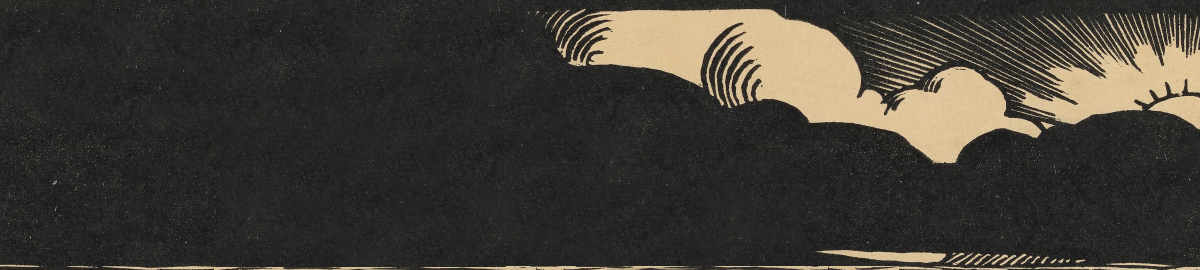
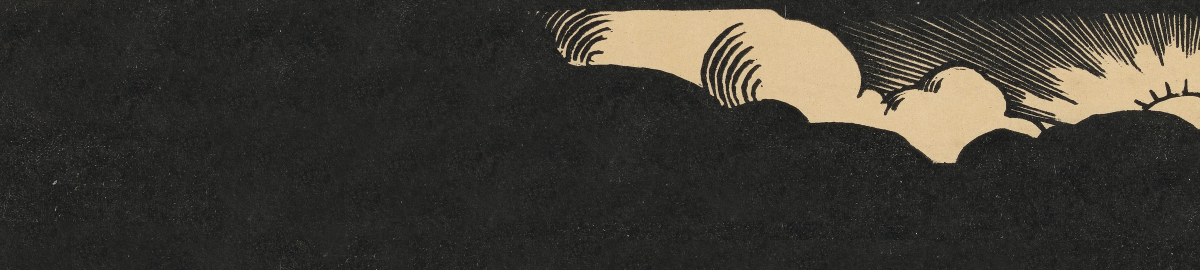
fix top image on small screens

Changed region(s): [[0.0617, 0.9185, 1.0, 1.0], [0.9867, 0.9185, 1.0, 0.9481], [0.0, 0.9778, 0.0308, 1.0]]

diff --git a/_sass/_main.scss b/_sass/_main.scss
@@ -36,7 +36,7 @@ body {
 	line-height: $lineheightserif;
 	height: 100%;
 	ul {list-style-type: none;}
-	background-color: black;
+	background-color: #272726;
 }
 
 *.sans {
@@ -80,14 +80,23 @@ h3, h4, h5 {
 	line-height: $lineheightserif;
 }
 
-#sitetitle {a {color: white;}}
+#sitetitle {
+	a {
+		color: white;
+		position: absolute;
+		bottom: $h3fontsizeserif*$fontratio*($lineheightsans/1em);
+	}
+}
 
 nav {
 	a.sans {
 		font-size: $h3fontsizeserif*$fontratio;
 		line-height: $lineheightsans;
 		color: #dfc598;
+		text-outline: 1px #272726 solid;
 	}
+	position: absolute;
+	bottom: 0;
 }
 
 #latestposts {
@@ -145,6 +154,7 @@ nav {
 	height: (270/903)*100%;
 	flex-shrink: 0;
 	min-width: 0;
+	position: relative;
 }
 
 
@@ -190,42 +200,75 @@ nav {
 	}
 }
 
-#spacer1 {
-	display: flex;
-	height: 100%;
-	min-height: 21*$pfontsizeserif;
-	#background-left {
+@media only screen and (min-width: 34*$pfontsizeserif) {
+	#spacer1 {
+		display: flex;
 		height: 100%;
 		min-height: 21*$pfontsizeserif;
-		position: fixed;
-		z-index: -2;
-	}
-	#background-left-2 {
-		height: 100%;
-		visibility: hidden;
+		#background-left {
+			height: 100%;
+			min-height: 21*$pfontsizeserif;
+			position: fixed;
+			z-index: -2;
+		}
+		#background-left-2 {
+			height: 100%;
+			visibility: hidden;
+			min-width: 0;
+		}
 		min-width: 0;
+		flex-shrink: 10000000000;
 	}
-	min-width: 0;
-	flex-shrink: 10000000000;
+
+	#spacer3 {
+		display: flex;
+		height: 100%;
+		min-height: 21*$pfontsizeserif;
+		#background-right {
+			height: 100%;
+			//width: auto;
+			min-height: 21*$pfontsizeserif;
+			position: fixed;
+			right: 0;
+			z-index: -1;
+		}
+		#background-right-2 {
+			height: 100%;
+			visibility: hidden;
+			min-width: 0;
+		}
+		min-width: 0;
+		flex-shrink: 100000;
+	}
 }
 
-#spacer3 {
-	display: flex;
-	height: 100%;
-	min-height: 21*$pfontsizeserif;
-	#background-right {
-		height: 100%;
-		//width: auto;
-		min-height: 21*$pfontsizeserif;
-		position: fixed;
-		right: 0;
-		z-index: -1;
+@media only screen and (max-width: 34*$pfontsizeserif) {
+	#spacer1 {
+		width: 0;
+		
+		#background-left {
+			display: none;
+		}
+		#background-left-2 {
+			display: none;
+		}
 	}
-	#background-right-2 {
-		height: 100%;
-		visibility: hidden;
-		min-width: 0;
+
+	#spacer3 {
+		width: 0;
+		
+		#background-right {
+			display: none;
+		}
+		#background-right-2 {
+			display: none;
+		}
 	}
-	min-width: 0;
-	flex-shrink: 100000;
+	
+	#siteheader {
+		background-image: url("/assets/images/le-beau-soir-top-2.png");
+		background-size: auto 100%;
+		//background-attachment: fixed;
+		background-position: top right;
+	}
 }
